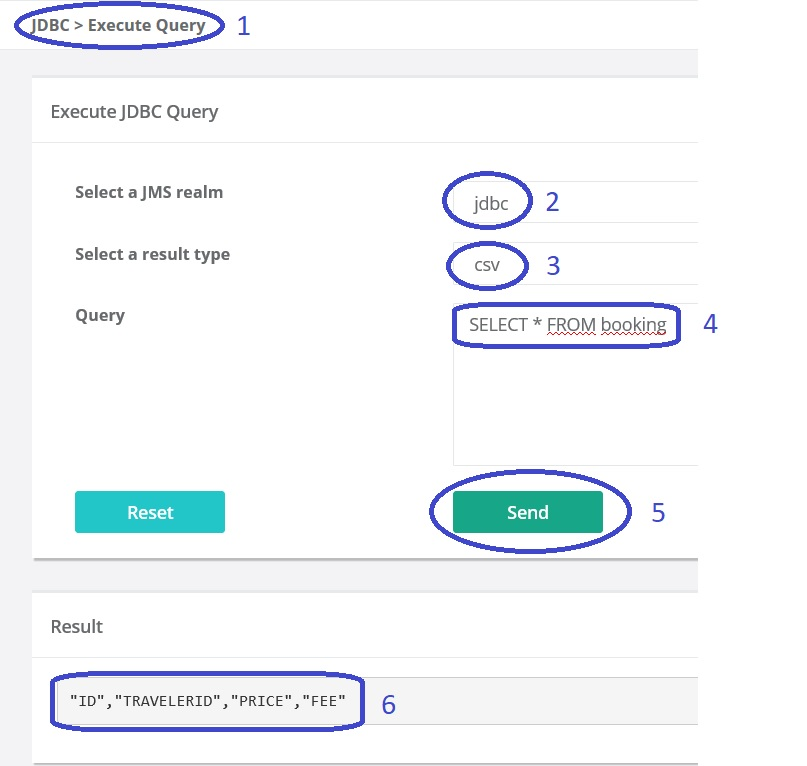
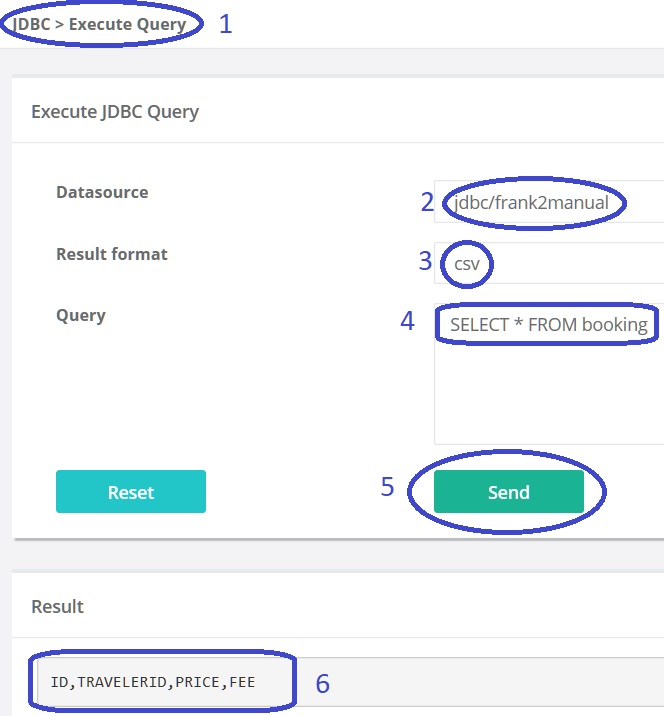
Replace a picture about JDBC Execute Query to eliminate JMS Realm

diff --git a/docs/source/gettingStarted/horizonsInitialData.rst b/docs/source/gettingStarted/horizonsInitialData.rst
@@ -70,9 +70,15 @@ You can test your work by querying the tables you created, "booking" and "visit"
 
    .. image:: jdbcExecuteQueryNoRowsYet.jpg
 
-#. You see you are in the JDBC Execute Query screen (number 1). Select "JMS realm" "jdbc" (number 2). You can choose to have comma-separated (csv) output instead of XML (number 3).
+#. You see you are in the JDBC Execute Query screen (number 1). Select "Datasource" "jdbc/frank2manual" (number 2).
+
+   .. NOTE::
+
+      For more information, see section :ref:`advancedDevelopmentDatabase`.
+
+#. You can choose to have comma-separated (csv) output instead of XML (number 3).
 #. Enter query ``SELECT * FROM booking`` (number 4).
-#. Press "Send". You will see the result ``"ID","TRAVELERID","PRICE","FEE"`` (number 6). You have verified that the "booking" table exists.
+#. Press "Send" (number 5). You will see the result ``"ID","TRAVELERID","PRICE","FEE"`` (number 6). You have verified that the "booking" table exists.
 #. Verify that table "visit" exists by executing the query ``SELECT * FROM visit``. Check that the result of this query is ``"BOOKINGID","SEQ","HOSTID","PRODUCTID","STARTDATE","ENDDATE","PRICE"``.
 
 .. NOTE::
